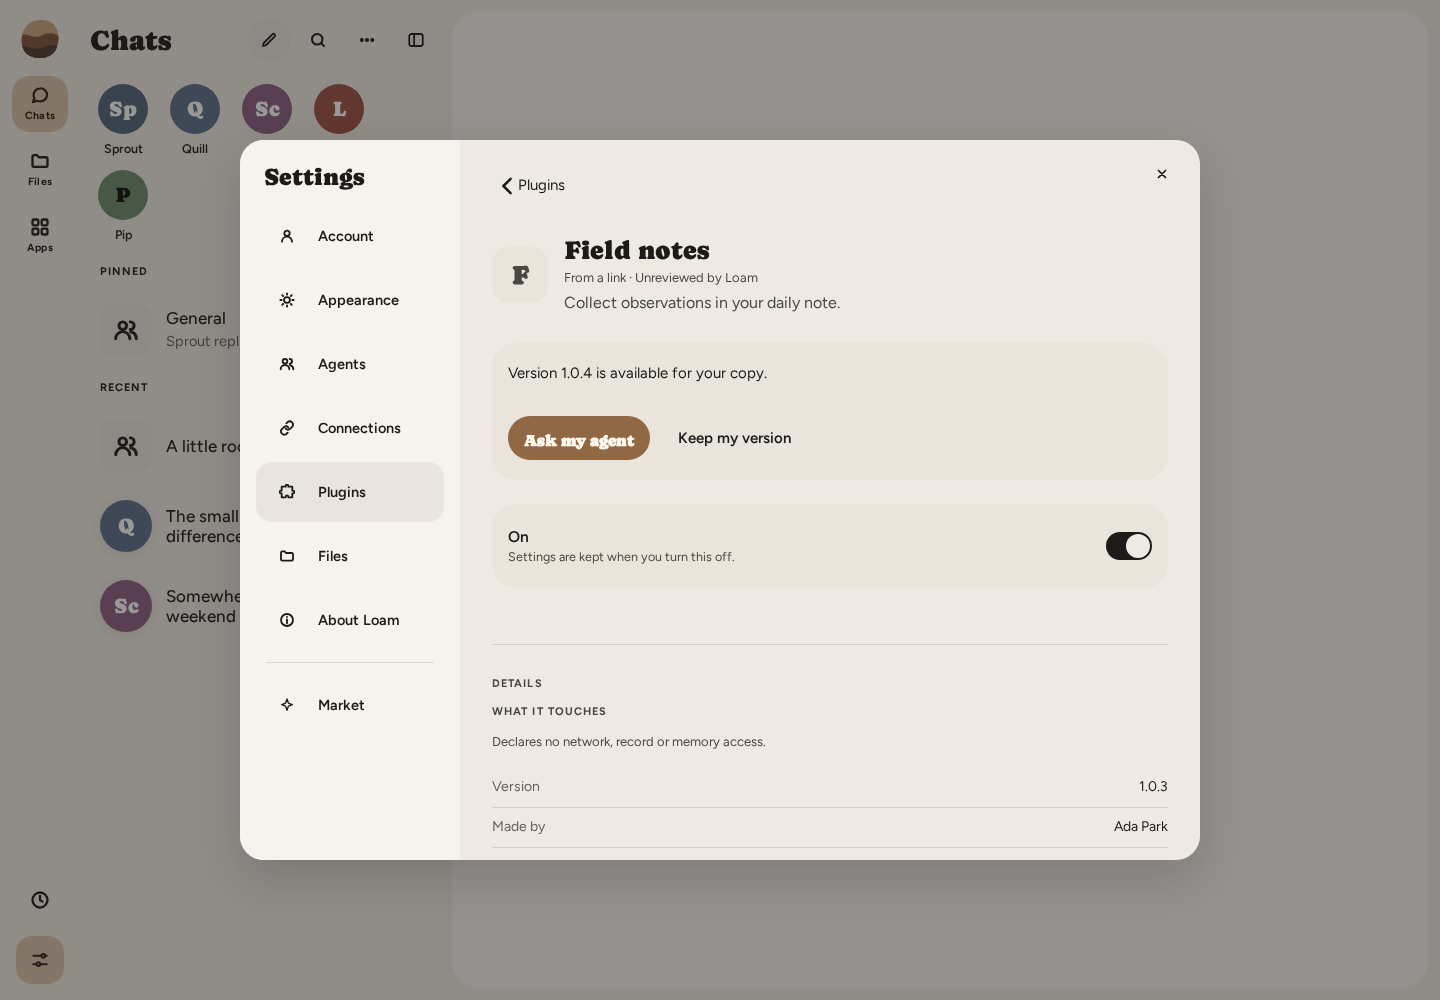
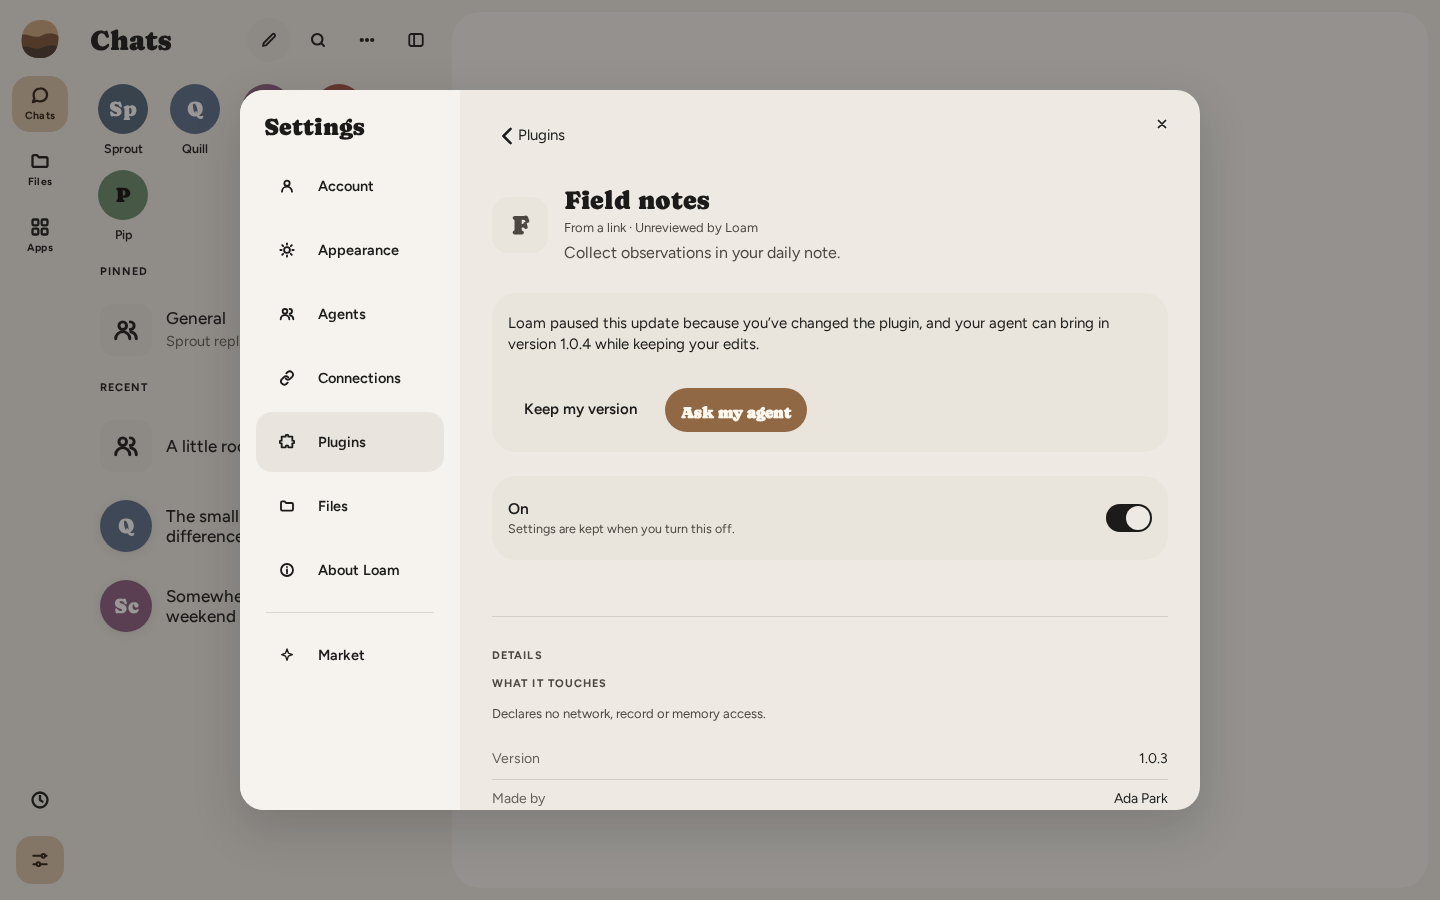
Explain personal updates and version-specific skips in both plugin screens

diff --git a/app/public/plugin-settings.js b/app/public/plugin-settings.js
@@ -3,7 +3,7 @@ import { createSecretSettings } from './plugin-secrets.js'
 import { pluginGallery } from './plugin-gallery.js'
 import { createThemeShowcase } from './theme-showcase.js'
 import { themePreview } from './theme-preview.js'
-import { listingAddress } from './market-card.js'
+import { listingAddress, personalUpdate, skippedUpdate } from './market-card.js'
 const label = id => ({ 'core.message': 'the message bubble', 'core.thread-list': 'the thread list', 'core.composer': 'the composer', 'core.files.viewer': 'the Files viewer', 'core.files.editor': 'the Files editor', 'core.rail': 'the navigation rail', 'core.activity': 'Activity', 'core.apps': 'Apps', 'core.settings': 'Settings' }[id] ?? id)
 const ORIGINS = { loam: 'Built into Loam', market: 'From the Market', yours: 'Made by you', link: 'From a link' }
 const UNREVIEWED = 'Unreviewed by Loam'
@@ -86,7 +86,7 @@ export function createPluginSettings({ loader, theme, host, changed = () => {} }
     ? 'market' : pluginOrigin(row, marketEntry(row))
   function updateLine(row) {
     const info = status(row)
-    if (info?.personal) return `Version ${info.version} is available for your copy.`
+    if (info?.personal) return personalUpdate(info.version)
     const words = []
     if (row.updates_paused) words.push('Changed here · updates paused')
     if (info) words.push(info.held ? 'Update needs your yes' : 'Update available', info.version)
@@ -112,7 +112,7 @@ export function createPluginSettings({ loader, theme, host, changed = () => {} }
         updateWrite = row.key; st.error = ''; changed()
         try {
           const out = await host.api('PATCH', `/plugins/${encodeURIComponent(row.id)}`, { review, version: info.version })
-          reviewAnswer = { key: row.key, version: info.version, text: out.skipped ? 'Keeping your version.' : 'Your agent has the update.' }
+          reviewAnswer = { key: row.key, version: info.version, text: out.skipped ? skippedUpdate(out.skipped) : 'Your agent has the update.' }
           await checkUpdates()
         } catch (error) { st.error = error.message }
         finally { updateWrite = null; changed() }
@@ -121,8 +121,8 @@ export function createPluginSettings({ loader, theme, host, changed = () => {} }
       return h('section', { class: 'rows plugin-updates', 'aria-label': 'Plugin updates' },
         h('div', { class: 'setrow' }, h('span', { class: 'setrow-who', role: 'status', text: answer || (info ? words : 'Your changes are kept when Loam checks for updates.') })),
         info?.personal ? h('div', { class: 'setrow' },
-          button('Ask my agent', () => decide('ask'), 'pillbtn primary', { disabled: Boolean(updateWrite) }),
-          button('Keep my version', () => decide('skip'), 'pillbtn', { disabled: Boolean(updateWrite) })) : null)
+          button('Keep my version', () => decide('skip'), 'pillbtn', { disabled: Boolean(updateWrite) }),
+          button('Ask my agent', () => decide('ask'), 'pillbtn primary', { disabled: Boolean(updateWrite) })) : null)
     }
     const review = () => info.via === 'market'
       ? host.openMarketInstall(row.id, { ...marketEntry(row), id: row.id, name: row.name, kind: row.kind, pinned_link: info.link })

diff --git a/app/public/page/market.js b/app/public/page/market.js
@@ -28,6 +28,7 @@
 // the listing's page, whose way back is the thread. An id the Market does not
 // list is the link's words, plain.
 import { h, icon, kept, blob, on as onNode } from '../ui.js'
+import { personalUpdate, skippedUpdate } from '../market-card.js'
 import { agentLook } from '../sessions.js'
 import { menuSurface } from '../menu-surface.js'
 import { sheetHandle } from '../chat-ui.js'
@@ -883,13 +884,13 @@ export function mount(host) {
           { review, link: p.source.url, via: link ? 'link' : 'market', version: p.version })
         if (st.install !== job) return
         job.phase = 'answered'
-        job.answer = out.skipped ? 'Keeping your version.' : 'Your agent has the update.'
+        job.answer = out.skipped ? skippedUpdate(out.skipped) : 'Your agent has the update.'
       } catch (error) { job.phase = 'ready'; job.error = error.message }
       host.schedule()
     }
     const card = h('div', { class: `sheet market-install${link ? ' market-link-found' : ''}`, key: `install:${job.id}` }, sheetHandle(closeInstall),
       personal ? [h('h2', { class: 'display sheet-title', tabindex: '-1', text: name }),
-        h('p', { class: 'note', role: 'status', text: job.answer || `Version ${p.version} is available for your copy.` }),
+        h('p', { class: 'note', role: 'status', text: job.answer || personalUpdate(p.version) }),
         job.error ? h('p', { role: 'alert', text: job.error }) : null,
         h('div', { class: 'market-install-acts' }, job.answer ? button('Done', closeInstall, 'pillbtn primary') : [
           button('Keep my version', () => decide('skip'), 'pillbtn', { disabled: job.phase !== 'ready' }),

diff --git a/app/public/market-card.js b/app/public/market-card.js
@@ -37,6 +37,9 @@ const LINE = /^\s{0,3}\[([^\[\]\n]{1,120})\]\(\s*<?(https?:\/\/[^\s()<>]+?)>?\s*
 
 // The address of a listing's page in the app, for an origin.
 export const listingAddress = (origin, id) => `${String(origin).replace(/\/+$/, '')}/?modal=market&listing=${id}`
+export const personalUpdate = version => `Loam paused this update because you’ve changed the plugin, and your agent can bring in version ${version} while keeping your edits.`
+export const skippedUpdate = version => `Version ${version} skipped. Your agent will ask again when a newer version is available.`
+
 export const linkAddress = (origin, link) => `${String(origin).replace(/\/+$/, '')}/?modal=market&install=${encodeURIComponent(link)}`
 const GITHUB_LINK = /^(?:https:\/\/github\.com\/[\w.-]+\/[\w.-]+(?:[/?#]\S*)?|[\w-][\w.-]*\/[\w.-]+)$/
 
